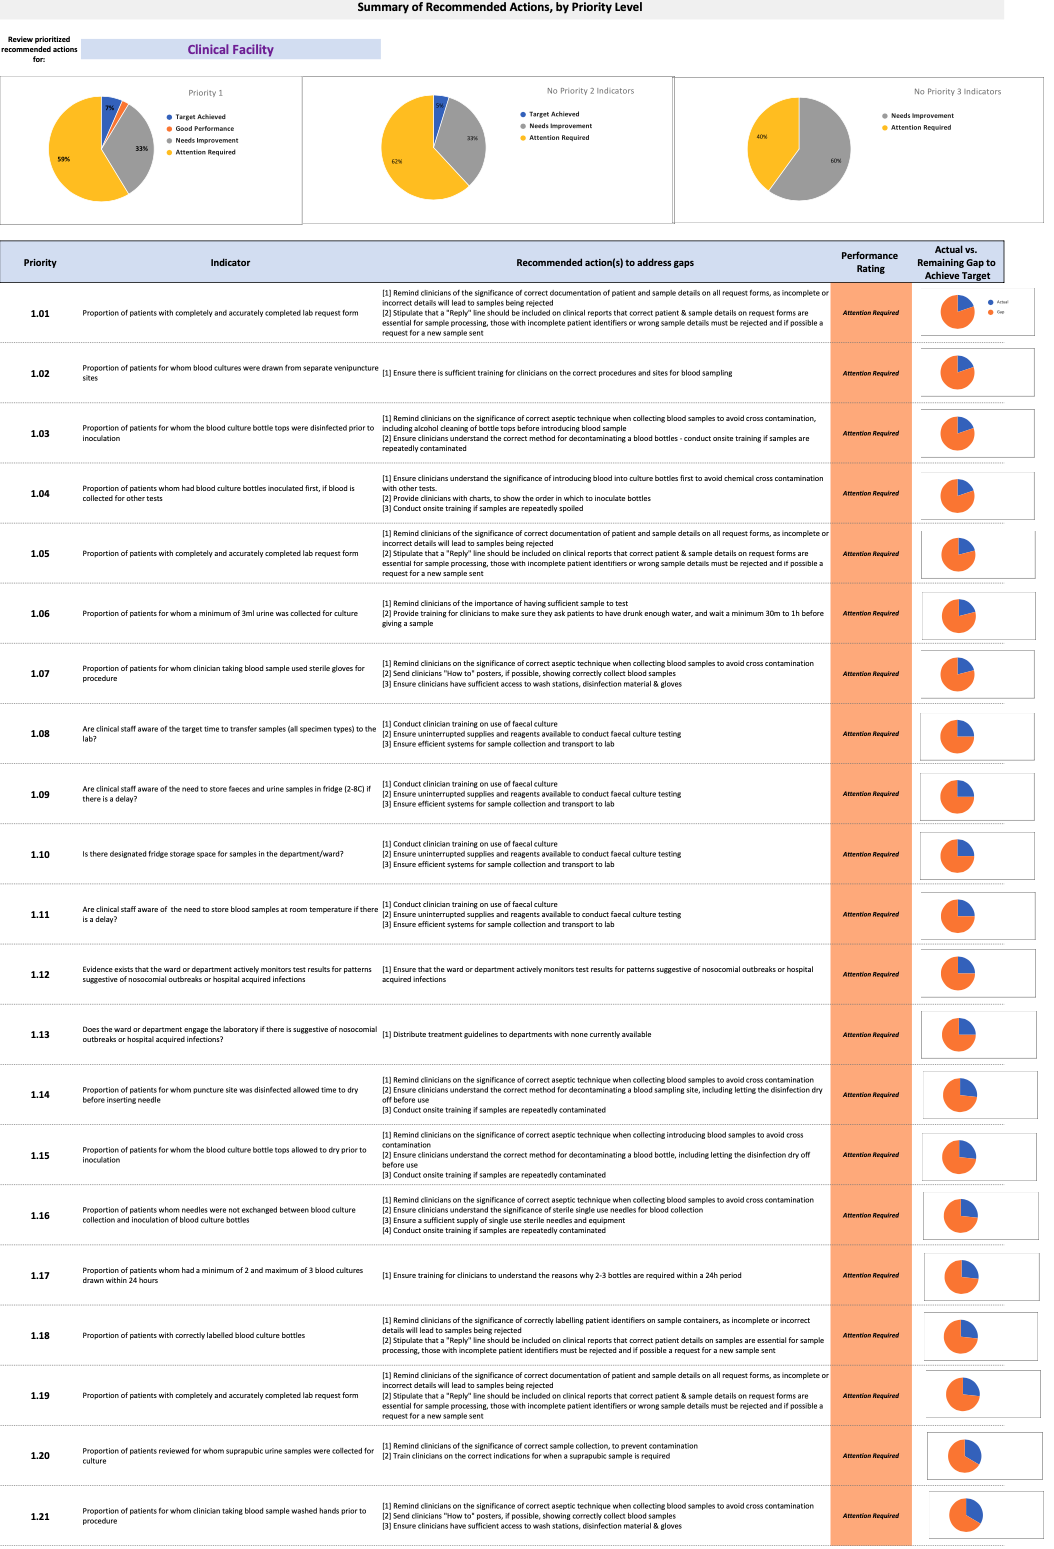
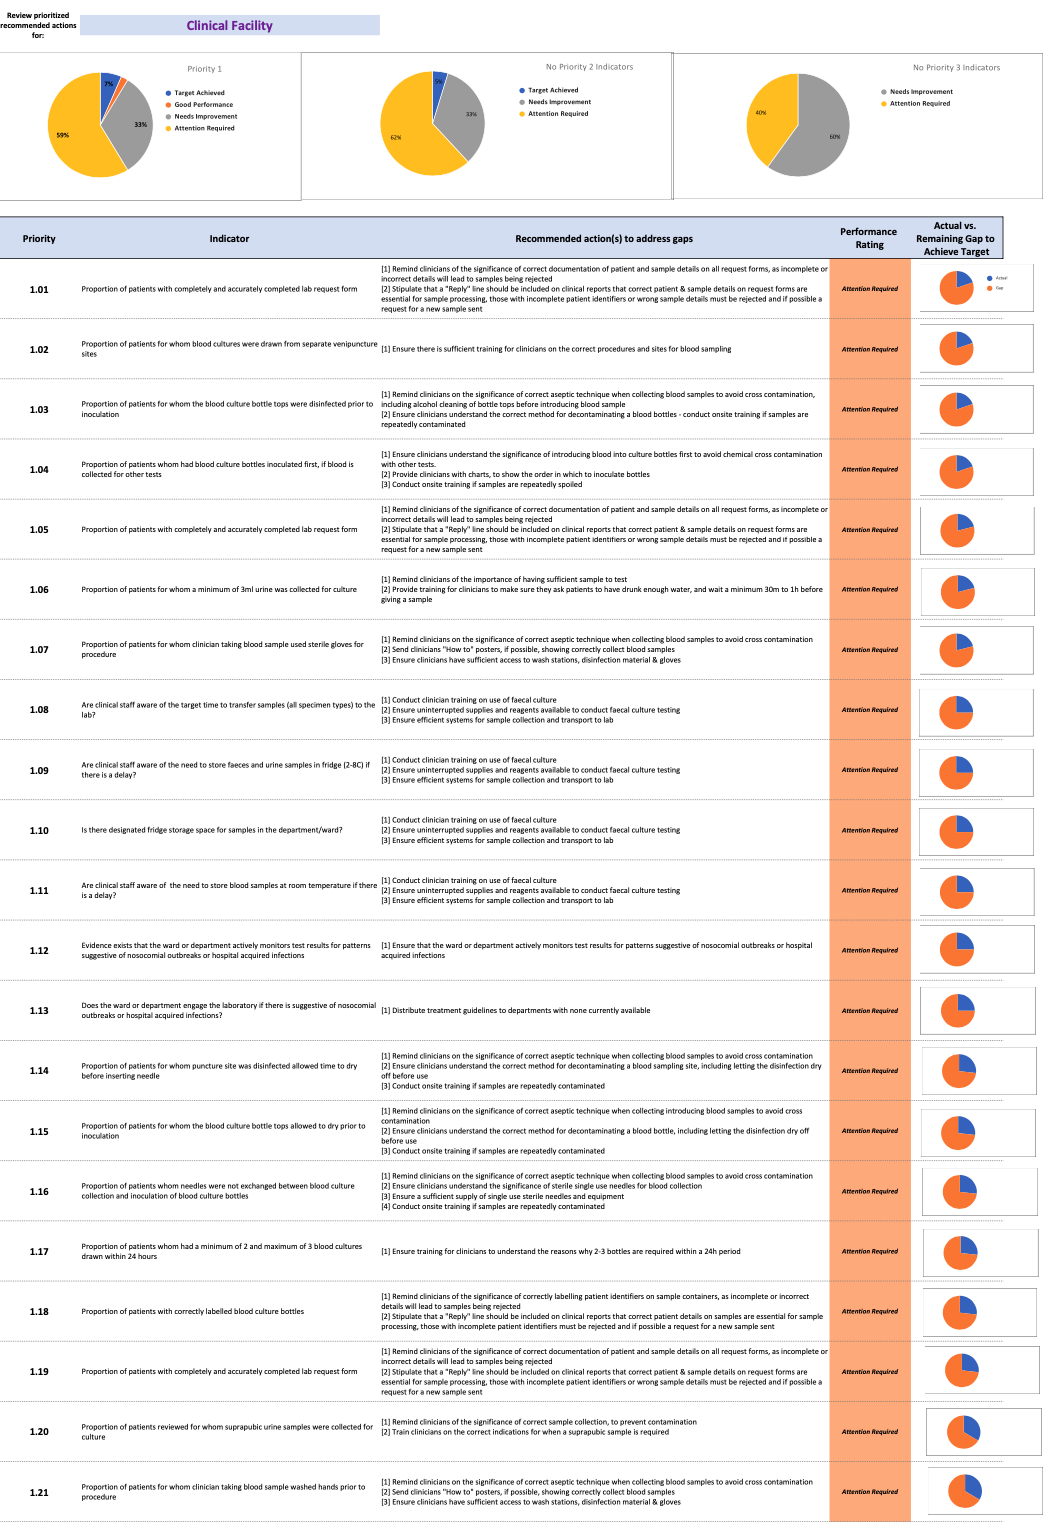
go with scaling

Changed region(s): [[0.0, 0.0, 0.9725, 0.9862], [0.0304, 0.8938, 0.0608, 0.9246]]

diff --git a/src/App.js b/src/App.js
@@ -248,12 +248,8 @@ class App extends React.Component {
         <h3 className='my-3 mx-5'>Summary of Recommended Actions by Priority Level</h3>
         <div className='my-3 mx-5'>Please select Clinical Facility or Laboratory. The recommended actions are sorted by priority level and assigned a performance rating, based on the assessment results.</div>
         <div className='note my-3 mx-5'><em>
-          Note: This is indicative of the summary output dashboard, but is non-functioning in this online prototype.
+          Note: The dashboard image below is indicative only and would be developed further in a full online tool.
         </em></div>
-        <div className='dash-images-1 text-center m-5'>
-          <img src={dashboard1} />
-          <img src={dashboard2} />
-        </div>
         <div className='dash-images text-center m-5'>
           <img src={dashboard1} />
           <img src={dashboard2} />

diff --git a/src/App.css b/src/App.css
@@ -188,12 +188,7 @@ input.target ~ label {
   margin-top: -10px;
 }
 
-.dash-images, .dash-images-1 {
-  /* width: 100%; */
-  /* padding: 25px; */
-}
-
-.dash-images-1 img {
+.dash-images img {
   width: 100%;
 }
 
